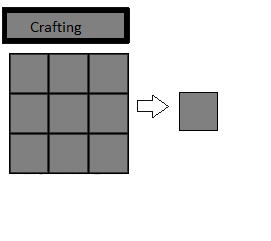
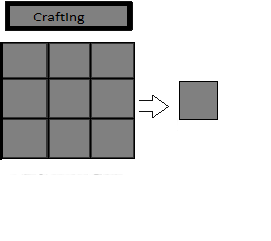
Affichage dans le crafting crafting.png a rendre transparent

Changed region(s): [[0.0, 0.0, 0.5314, 0.7261], [0.6494, 0.3195, 0.8266, 0.4066], [0.6494, 0.4938, 0.8266, 0.5519]]

diff --git a/manicdigger-master/ManicDiggerLib/Client/HudInventory.ci.cs b/manicdigger-master/ManicDiggerLib/Client/HudInventory.ci.cs
@@ -304,6 +304,7 @@
 
     public void Draw()
     {
+
         if (ScrollingUpTimeMilliseconds != 0 && (game.platform.TimeMillisecondsFromStart() - ScrollingUpTimeMilliseconds) > 250)
         {
             ScrollingUpTimeMilliseconds = game.platform.TimeMillisecondsFromStart();
@@ -338,23 +339,56 @@
             }
         }
 
-        //draw area selection
-        if (game.d_Inventory.DragDropItem != null)
+        //Crafting inventory Draw
+        for (int i = 0; i < game.d_Inventory.CraftItemsCount; i++ )
         {
-            PointRef selectedInPage = SelectedCell(scaledMouse);
-            if (selectedInPage != null)
+            Packet_PositionItem k = game.d_Inventory.CraftItems[i];
+            if (k == null)
             {
-                int x = (selectedInPage.X) * CellDrawSize + CellsStartX();
-                int y = (selectedInPage.Y) * CellDrawSize + CellsStartY();
-                int sizex = dataItems.ItemSizeX(game.d_Inventory.DragDropItem);
-                int sizey = dataItems.ItemSizeY(game.d_Inventory.DragDropItem);
-                if (selectedInPage.X + sizex <= CellCountInPageX
-                    && selectedInPage.Y + sizey <= CellCountInPageY)
+                continue;
+            }
+            
+                DrawItem(CraftingInterfaceStartX() + k.X * CellDrawSize, CraftingInterfaceStartY() + k.Y* CellDrawSize, k.Value_, 0, 0);
+        }
+
+            //draw area selection
+            if (game.d_Inventory.DragDropItem != null)
+            {
+                PointRef selectedInPage = SelectedCell(scaledMouse);
+                if (selectedInPage != null)
                 {
+                    int x = (selectedInPage.X) * CellDrawSize + CellsStartX();
+                    int y = (selectedInPage.Y) * CellDrawSize + CellsStartY();
+                    int sizex = dataItems.ItemSizeX(game.d_Inventory.DragDropItem);
+                    int sizey = dataItems.ItemSizeY(game.d_Inventory.DragDropItem);
+                    if (selectedInPage.X + sizex <= CellCountInPageX
+                        && selectedInPage.Y + sizey <= CellCountInPageY)
+                    {
+                        int c;
+                        IntRef itemsAtAreaCount = new IntRef();
+                        PointRef[] itemsAtArea = inventoryUtil.ItemsAtArea(selectedInPage.X, selectedInPage.Y + ScrollLine, sizex, sizey, itemsAtAreaCount);
+                        if (itemsAtArea == null || itemsAtAreaCount.value > 1)
+                        {
+                            c = Game.ColorFromArgb(100, 255, 0, 0); // red
+                        }
+                        else //0 or 1
+                        {
+                            c = Game.ColorFromArgb(100, 0, 255, 0); // green
+                        }
+                        game.Draw2dTexture(game.WhiteTexture(), x, y,
+                            CellDrawSize * sizex, CellDrawSize * sizey,
+                            null, 0, c, false);
+                    }
+                }
+                IntRef selectedWear = SelectedWearPlace(scaledMouse);
+                if (selectedWear != null)
+                {
+                    PointRef p = PointRef.Create(wearPlaceStart[selectedWear.value].X + InventoryStartX(), wearPlaceStart[selectedWear.value].Y + InventoryStartY());
+                    PointRef size = wearPlaceCells[selectedWear.value];
+
                     int c;
-                    IntRef itemsAtAreaCount = new IntRef();
-                    PointRef[] itemsAtArea = inventoryUtil.ItemsAtArea(selectedInPage.X, selectedInPage.Y + ScrollLine, sizex, sizey, itemsAtAreaCount);
-                    if (itemsAtArea == null || itemsAtAreaCount.value > 1)
+                    Packet_Item itemsAtArea = inventoryUtil.ItemAtWearPlace(selectedWear.value, game.ActiveMaterial);
+                    if (!dataItems.CanWear(selectedWear.value, game.d_Inventory.DragDropItem))
                     {
                         c = Game.ColorFromArgb(100, 255, 0, 0); // red
                     }
@@ -362,32 +396,11 @@
                     {
                         c = Game.ColorFromArgb(100, 0, 255, 0); // green
                     }
-                    game.Draw2dTexture(game.WhiteTexture(), x, y,
-                        CellDrawSize * sizex, CellDrawSize * sizey,
+                    game.Draw2dTexture(game.WhiteTexture(), p.X, p.Y,
+                        CellDrawSize * size.X, CellDrawSize * size.Y,
                         null, 0, c, false);
                 }
             }
-            IntRef selectedWear = SelectedWearPlace(scaledMouse);
-            if (selectedWear != null)
-            {
-                PointRef p = PointRef.Create(wearPlaceStart[selectedWear.value].X + InventoryStartX(), wearPlaceStart[selectedWear.value].Y + InventoryStartY());
-                PointRef size = wearPlaceCells[selectedWear.value];
-
-                int c;
-                Packet_Item itemsAtArea = inventoryUtil.ItemAtWearPlace(selectedWear.value, game.ActiveMaterial);
-                if (!dataItems.CanWear(selectedWear.value, game.d_Inventory.DragDropItem))
-                {
-                    c = Game.ColorFromArgb(100, 255, 0, 0); // red
-                }
-                else //0 or 1
-                {
-                    c = Game.ColorFromArgb(100, 0, 255, 0); // green
-                }
-                game.Draw2dTexture(game.WhiteTexture(), p.X, p.Y,
-                    CellDrawSize * size.X, CellDrawSize * size.Y,
-                    null, 0, c, false);
-            }
-        }
 
         //material selector
         DrawMaterialSelector();

diff --git a/manicdigger-master/ManicDiggerLib/Server/Server.cs b/manicdigger-master/ManicDiggerLib/Server/Server.cs
@@ -1598,7 +1598,22 @@ namespace ManicDiggerServer
                         p.Inventory.RightHand[i] = ConvertItem(inv.Inventory.RightHand[i]);
                     }
                 }
+
+                p.Inventory.CraftItemsCount = inv.Inventory.CraftInv.Count;
+                p.Inventory.CraftItemsLength = inv.Inventory.CraftInv.Count;
+                p.Inventory.CraftItems = new Packet_PositionItem[inv.Inventory.CraftInv.Count];
+                int i2 = 0;
+                foreach (var k in inv.Inventory.CraftInv)
+                {
+                    Packet_PositionItem item = new Packet_PositionItem();
+                    item.Key_ = SerializePoint(k.Key.X, k.Key.Y);
+                    item.Value_ = ConvertItem(k.Value);
+                    item.X = k.Key.X;
+                    item.Y = k.Key.Y;
+                    p.Inventory.CraftItems[i2++] = item;
+                }
             }
+
             return p;
         }
 

diff --git a/manicdigger-master/ManicDiggerLib/Client/Game.ci.cs b/manicdigger-master/ManicDiggerLib/Client/Game.ci.cs
@@ -7125,6 +7125,7 @@
             case GuiState.Inventory:
                 {
                     DrawDialogs();
+                    
                     //d_The3d.ResizeGraphics(Width, Height);
                     //d_The3d.OrthoMode(d_HudInventory.ConstWidth, d_HudInventory.ConstHeight);
                     d_HudInventory.Draw();
